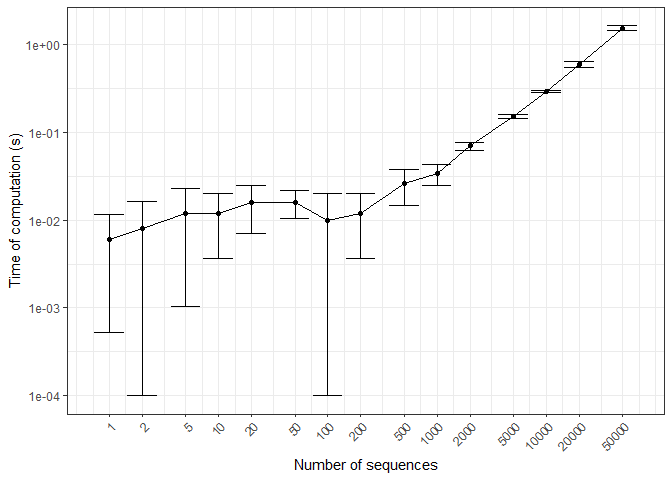
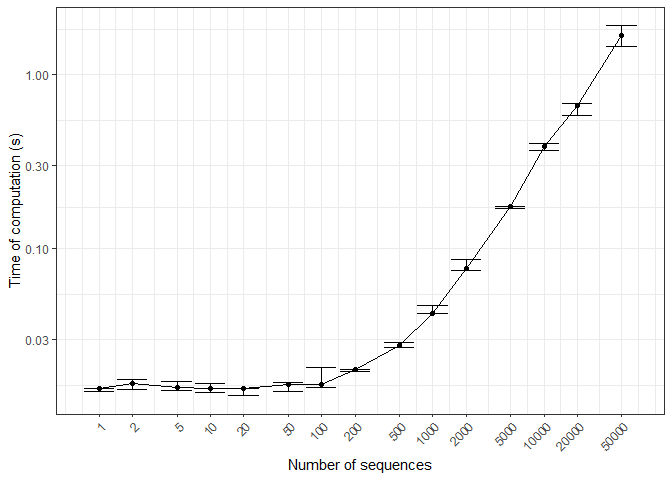
Rewrite time of computation profiling with `bench::mark` function.

diff --git a/README.md b/README.md
@@ -16,7 +16,7 @@ coverage](https://codecov.io/gh/zhuxr11/markovmix/branch/master/graph/badge.svg)
 
 **Package**: [*markovmix*](https://github.com/zhuxr11/markovmix)
 0.1.0<br /> **Author**: Xiurui Zhu<br /> **Modified**: 2023-04-22
-10:32:44<br /> **Compiled**: 2023-04-22 10:32:48
+12:25:38<br /> **Compiled**: 2023-04-22 12:25:42
 
 The goal of `markovmix` is to fit mixture of Markov chains of higher
 orders from multiple sequences. It is also compatible with ordinary
@@ -52,6 +52,11 @@ library(markovmix)
 
 ``` r
 library(purrr)
+#> 
+#> Attaching package: 'purrr'
+#> The following object is masked from 'package:testthat':
+#> 
+#>     is_null
 
 # Define Markov states
 mk_states <- LETTERS[seq_len(4L)]
@@ -259,8 +264,9 @@ print(head(mk_pred_res_comp, n = 10L))
 ## Time of computation
 
 The core functions of `markovmix` are written with `Rcpp` to efficiently
-process sequences and probabilities. Here, time of computation is
-profiled with the number of sequences.
+process sequences and probabilities. Here, time of computation (ToC) is
+profiled with the number of sequences, where dots correspond to ToC
+medians and error bars to ToC quantiles.
 
 ``` r
 # Define sequence lengths for ToC profiling
@@ -274,30 +280,44 @@ mk_toc_clusters <- purrr::map(
   mk_toc_seq_len,
   ~ matrix(runif(.x * mk_n_comp), nrow = .x, ncol = mk_n_comp)
 )
-# Define repetition times for ToC profiling
-mk_toc_n_times <- 5L
-mk_toc <- purrr::map2(
-  mk_toc_seq_list,
-  mk_toc_clusters,
-  ~ purrr::rerun(.n = mk_toc_n_times, {
-    system.time(fit_markov_mix(.x, order. = 2L, states = mk_states, clusters = .y, verbose = FALSE))[["elapsed"]]
-  }) %>%
-    purrr::flatten_dbl()
+mk_toc_exprs <- purrr::map(
+  purrr::set_names(seq_along(mk_toc_seq_len), mk_toc_seq_len),
+  ~ rlang::expr(fit_markov_mix(
+    seq_list = mk_toc_seq_list[[!!.x]],
+    order. = 2L,
+    states = mk_states,
+    clusters = mk_toc_clusters[[!!.x]],
+    verbose = FALSE
+  ))
+)
+# Profile time of computation
+mk_toc <- bench::mark(
+  exprs = mk_toc_exprs,
+  min_time = Inf,
+  iterations = 5L,
+  filter_gc = FALSE,
+  check = FALSE
 )
 ```
 
 ``` r
-ggplot2::ggplot(tibble::tibble(seq_len = rep(mk_toc_seq_len, each = mk_toc_n_times),
-                               toc = unlist(mk_toc)) %>%
+mk_toc_plot_data <- mk_toc %>%
+  tibble::as_tibble() %>%
+  dplyr::select(expression, time) %>%
+  dplyr::rename(seq_len = expression, toc = time) %>%
+  dplyr::mutate_at("seq_len", ~ as.integer(names(.x))) %>%
+  dplyr::mutate_at("toc", ~ purrr::map(.x, unclass)) %>%
+  tidyr::unnest("toc")
+ggplot2::ggplot(mk_toc_plot_data %>%
                   dplyr::group_by(seq_len) %>%
-                  dplyr::summarize(toc_mean = mean(toc, na.rm = TRUE),
-                                   toc_sd = sd(toc, na.rm = TRUE),
+                  dplyr::summarize(toc_median = median(toc, na.rm = TRUE),
+                                   toc_min = quantile(toc, 0.25, na.rm = TRUE),
+                                   toc_max = quantile(toc, 0.75, na.rm = TRUE),
                                    .groups = "drop"),
-                ggplot2::aes(x = seq_len, y = toc_mean)) +
+                ggplot2::aes(x = seq_len, y = toc_median)) +
   ggplot2::geom_line() +
   ggplot2::geom_point() +
-  ggplot2::geom_errorbar(ggplot2::aes(ymin = pmax(toc_mean - toc_sd, 1e-4),
-                                      ymax = toc_mean + toc_sd)) +
+  ggplot2::geom_errorbar(ggplot2::aes(ymin = toc_min, ymax = toc_max)) +
   ggplot2::scale_x_log10(breaks = mk_toc_seq_len) +
   ggplot2::scale_y_log10() +
   ggplot2::theme_bw() +
